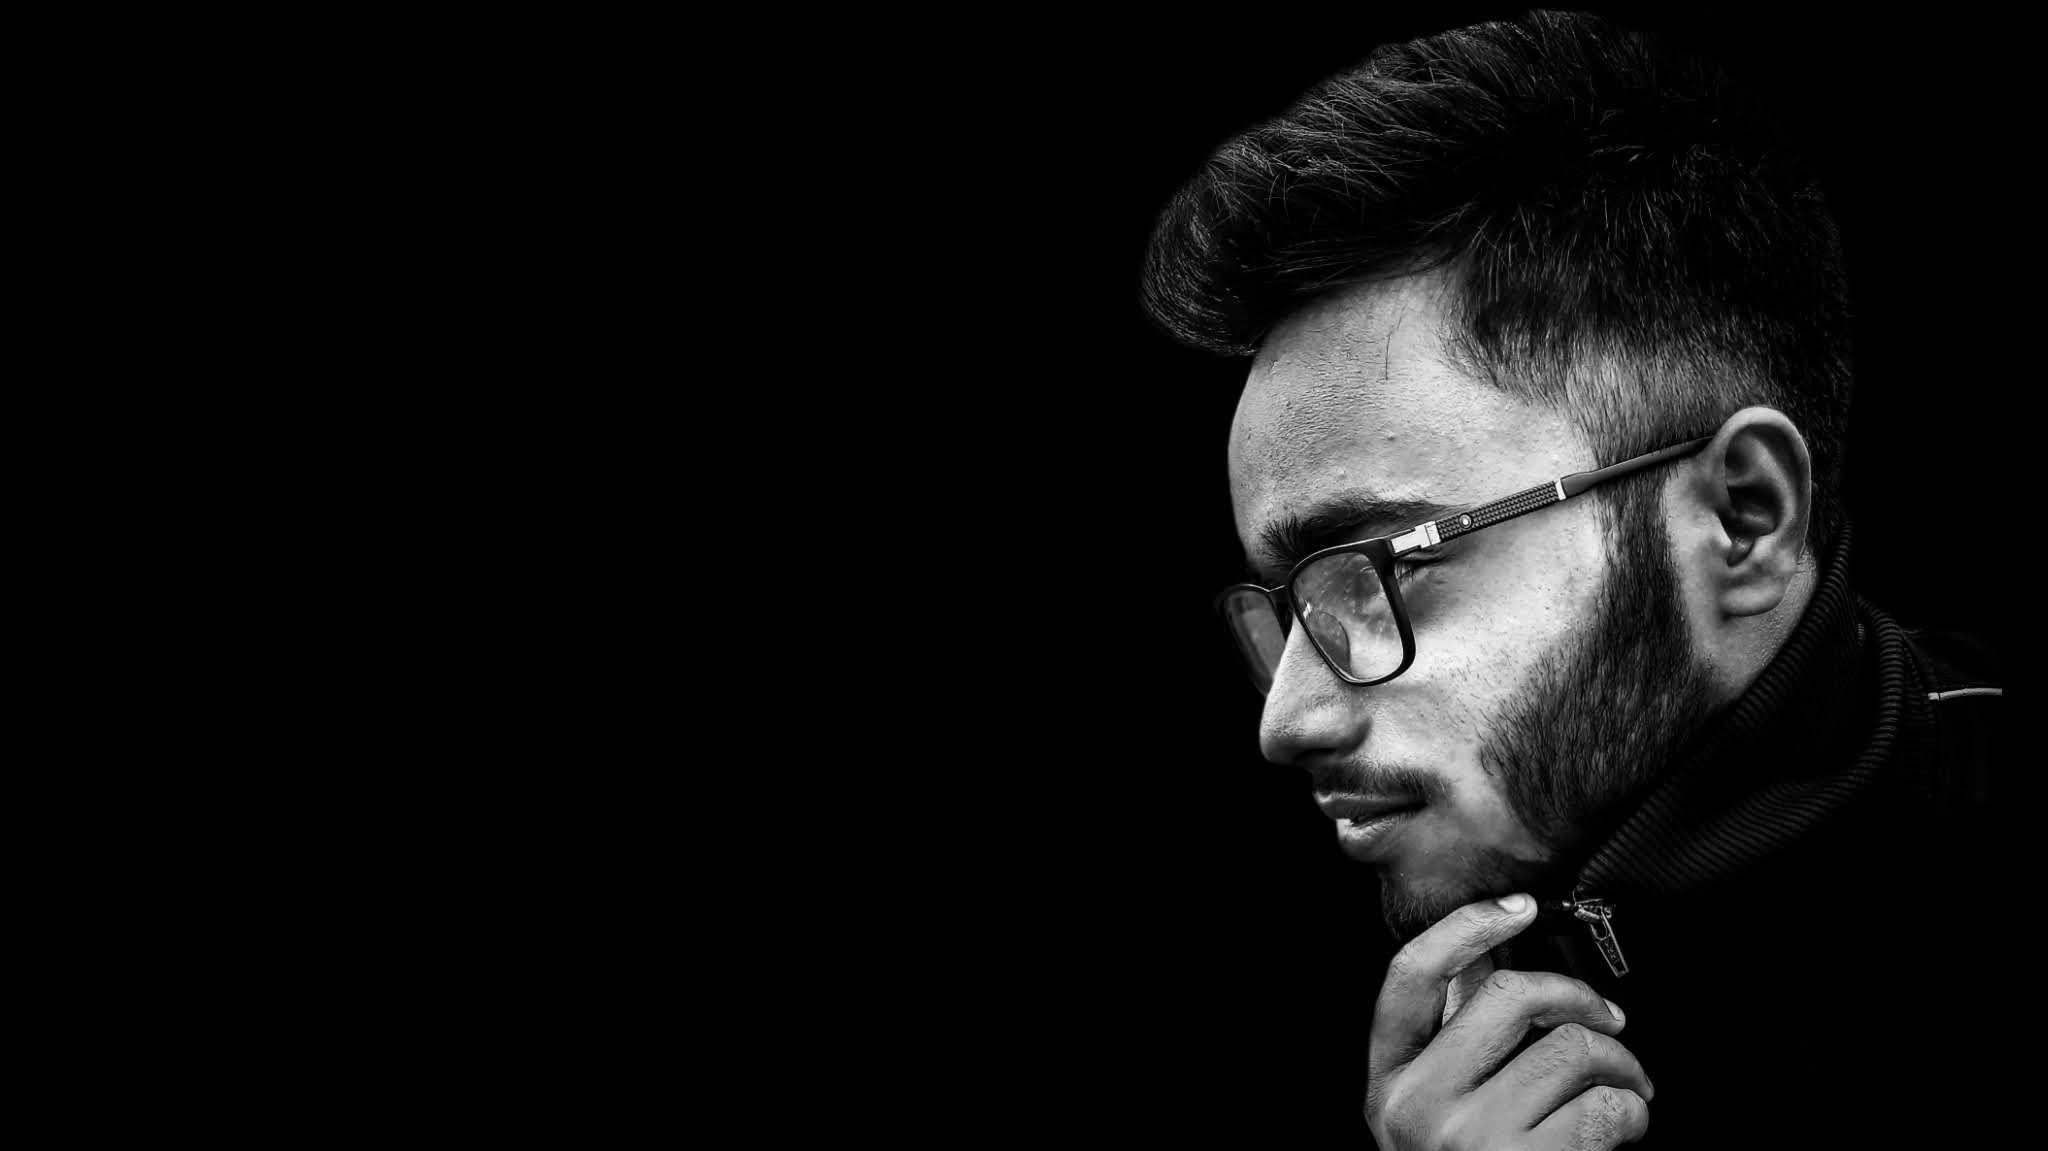
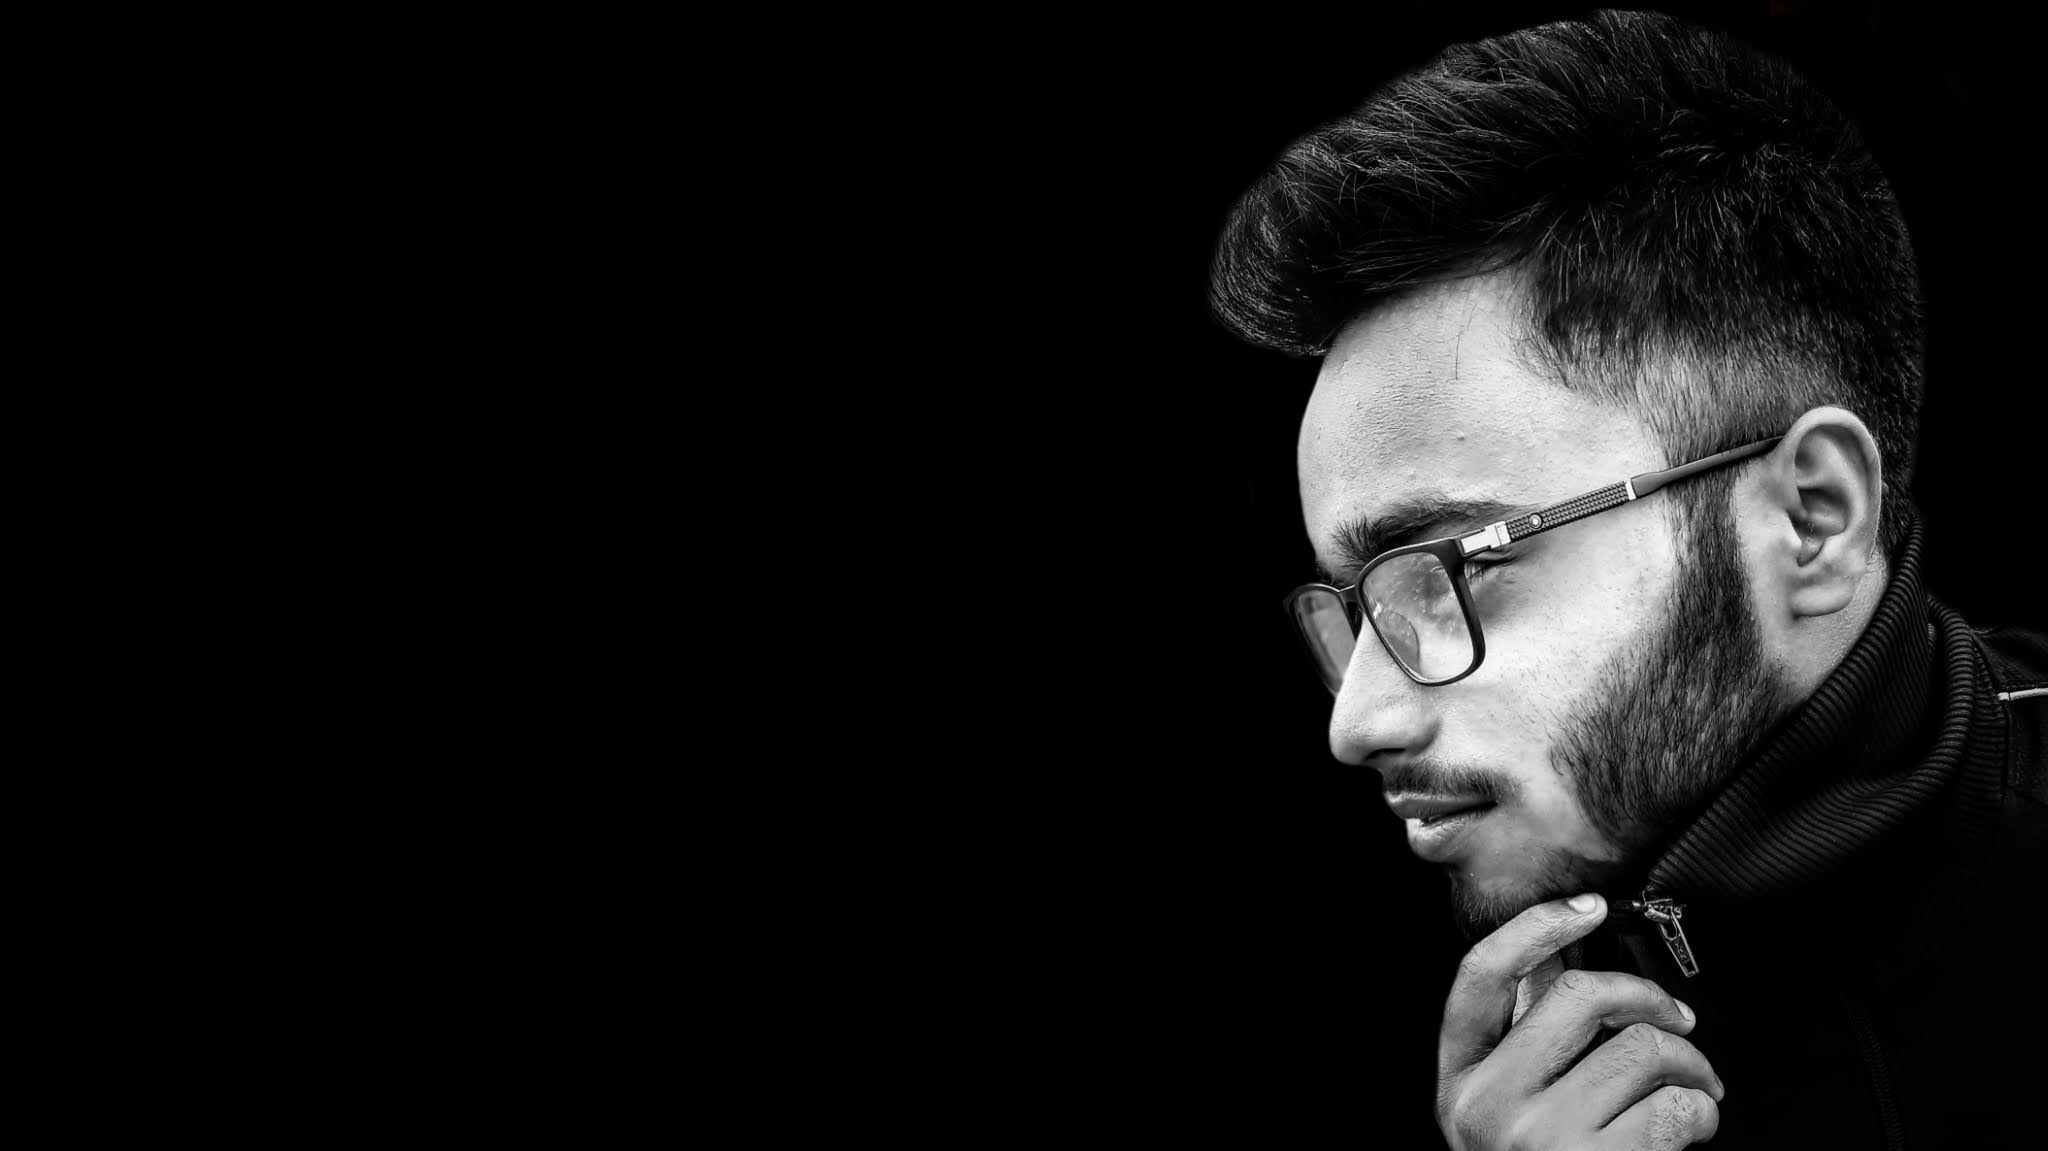
Hompage 12thmarch

Changed region(s): [[0.5625, 0.0, 1.0, 1.0]]

diff --git a/assets/css/style.css b/assets/css/style.css
@@ -19,7 +19,7 @@ body {
 body::before {
   content: "";
   position: fixed;
-  background: #040404 url("../img/myself2.jpg") top right no-repeat;
+  background: #040404 url("../img/me6.jpg") top right no-repeat;
   background-size: cover;
   left: 0;
   right: 0;
